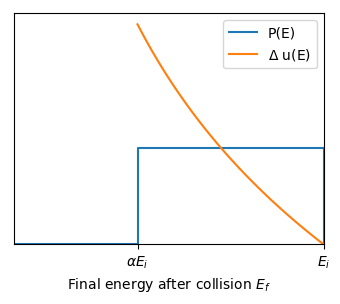
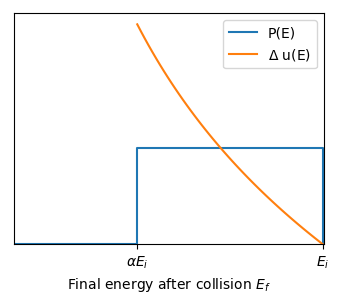
Made the appropriate captions for the .pngs

diff --git a/NeutronCollisionMisconception.tex b/NeutronCollisionMisconception.tex
@@ -102,14 +102,15 @@ https://github.com/OceanNuclear/NeutronLethargy
 	Note that figure \ref{Fig1} is oriented in the opposite direction as figure \ref{Fig2}, neutrons starts with a high initial energy $E_i$ (RHS of the former graph)/ zero lethargy (RHS of the latter graph) $\Delta u=0$, and scatter down to lower energy/ greater lethargy, with the minimum energy achievable $= \alpha E_i$/ maximum lethargy gained $= ln(\alpha)$ in a single scatter
 
 	
-	However, in section \ref{Incorrect}, the following method is used (See figure \ref{Fig3}) :
+	However, in section \ref{Incorrect} (See figure \ref{Fig3}),
 	
 	*Insert Figure 3
 	
-	This will give an incorrect answer because the average $E_f$ as determined by the rectangular area is different from the average as determined by the area under the curve $ \Delta u P(E)$ (product of the two curves drawn).
+	The lethargy of the average average energy (green dotted line) is used instead.. This leads to a higher
+
+	This will give an incorrect answer because the average $E_f$ as determined by the rectangular area is different from the average as determined by the area under the curve $ \Delta u P(E)$ (product of the two solid curves drawn).
 
 	Due to the non-linearity of the $\Delta u$ vs $E$ a small 'excursion' to the left will contribute a much larger increment in lethargy gain than decrement in lethargy gain when there is a small 'excursion' to the right.
-	
 	
 	Note that if $\alpha$ is very close to 1, then this non-linearity can be ignored, i.e. at very large atomic masses, e.g. ${}^{238}$U, the above two methods should give very similar results.
 

diff --git a/IllustrationPlotters.py b/IllustrationPlotters.py
@@ -11,7 +11,7 @@ x_rect=np.concatenate([[0,alpha],x,[1]])
 y=alpha*(x-x+1)#hack to make y=alpha with the same shape of x, quickly.
 y_rect=np.concatenate([[0,0],y,[0]])
 
-Figure = "Fig1"
+Figure = "Fig3"
 
 if Figure=="Fig1":
 	#Create other distributions
@@ -25,7 +25,7 @@ if Figure=="Fig1":
 	ax.set_xticks([alpha,1])
 	ax.set_xticklabels([r"$\alpha E_i$",r"$E_i$"])
 	ax.set_xlabel(r"Final energy after collision $E_f$")
-	ax.set_xlim(0,1.004)
+	ax.set_xlim(0,1.002)
 
 if Figure=="Fig2":
 	x2 = np.linspace(0,-np.log(alpha))
@@ -56,6 +56,7 @@ if Figure=="Fig3":
 		ydot.append(np.log(1/midpt))
 	ax.plot(xdot,ydot, linestyle="--")
 	ax.set_xlim(0,1.004)
+	ax.set_xlabel(r"Final energy after collision $E_f$")
 
 #set y axes, legend, and save.
 ax.set_ylim(bottom=0)
